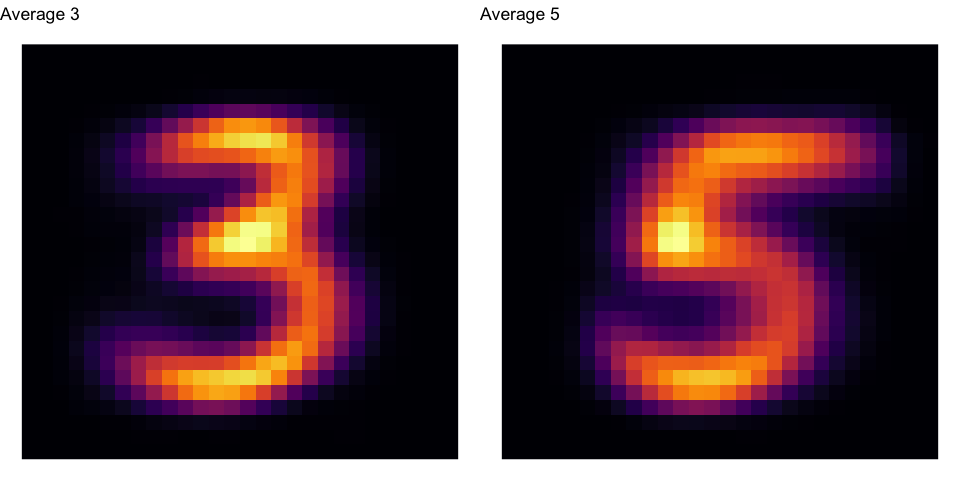
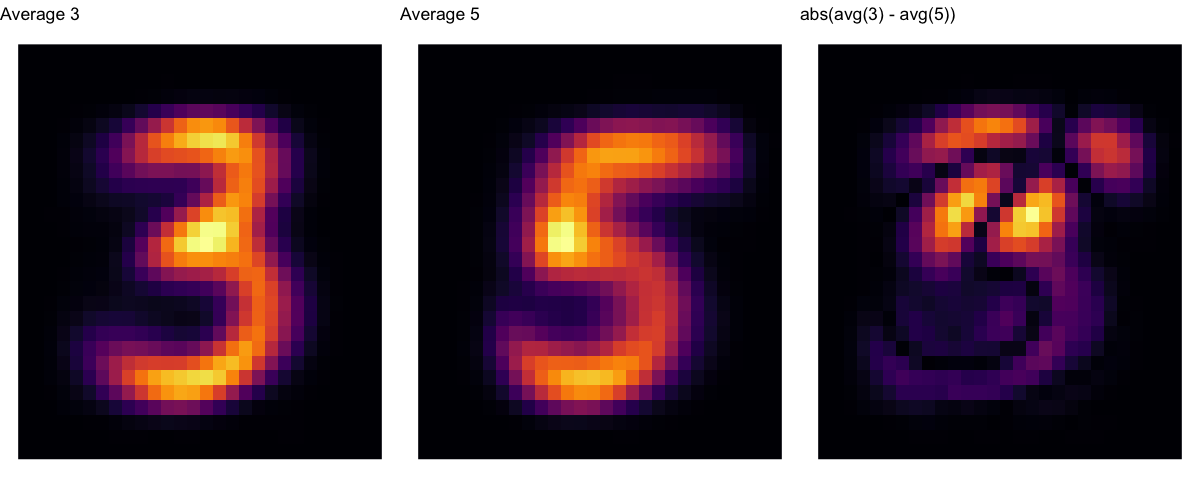
update 3-5 plot (#319)

diff --git a/docs/demos/S-RerF/ImportanceMap.rst b/docs/demos/S-RerF/ImportanceMap.rst
@@ -174,18 +174,24 @@ plot the average 3 and 5 from the training set
 
    s3 <- as.vector(t(sum3[28:1,]))
    s5 <- as.vector(t(sum5[28:1,]))
+   s3m5 <- abs(s3 - s5)
 
-   Z <- data.frame(g, z = c(nn, nnrerf, nnrf, s3, s5), Alg =  rep(c("MF", "Sporf", "RF", "Average 3", "Average 5"), each = length(nn)))
+   Z <- data.frame(g, weight = c(nn, nnrerf, nnrf, s3, s5, s3m5), Alg =  rep(c("MF", "Sporf", "RF", "Average 3", "Average 5", "x3m5"), each = length(nn)))
 
    sc0 <- scale_fill_gradientn(colours = viridis(255))
    sc1 <- scale_fill_gradientn(colours = inferno(255))
 
-   a1 <- ggplot(data = Z[ Z$Alg == "Average 3",    ], aes(x = x, y = y, fill = z)) + geom_raster() + theme_void() + guides(fill = FALSE) + sc1 + ggtitle("Average 3")
-   a2 <- ggplot(data = Z[ Z$Alg == "Average 5", ], aes(x = x, y = y, fill = z)) + geom_raster() + theme_void() + guides(fill = FALSE) + sc1 + ggtitle("Average 5")
+   a1 <- ggplot(data = Z[ Z$Alg == "Average 3",    ], aes(x = x, y = y, fill = weight)) + geom_raster() + theme_void() + guides(fill = FALSE) + sc1 + ggtitle("Average 3")
+   a2 <- ggplot(data = Z[ Z$Alg == "Average 5", ], aes(x = x, y = y, fill = weight)) + geom_raster() + theme_void() + guides(fill = FALSE) + sc1 + ggtitle("Average 5")
+   a3 <- ggplot(data = Z[ Z$Alg == "x3m5", ], aes(x = x, y = y, fill = weight)) + geom_raster() + theme_void() + guides(fill = FALSE) + sc1 + ggtitle("abs(avg(3) - avg(5))")
 
-   grid.arrange(a1, a2, ncol=2)
+   grid.arrange(a1, a2, a3, ncol=3)
 
 |image0|\ 
+
+.. code:: r
+
+   #ggslackr(grid.arrange(a1, a2, a3, ncol=3), channels="#manifold-forest")
 
 Feature heatmap
 ---------------
@@ -195,9 +201,9 @@ heatmaps.
 
 .. code:: r
 
-   p1 <- ggplot(data = Z[ Z$Alg == "MF",    ], aes(x = x, y = y, fill = z)) + geom_raster() + theme_void() + guides(fill = FALSE) + sc1+ ggtitle("MF")
-   p2 <- ggplot(data = Z[ Z$Alg == "Sporf", ], aes(x = x, y = y, fill = z)) + geom_raster() + theme_void() + guides(fill = FALSE) + sc1+ ggtitle("Sporf")
-   p3 <- ggplot(data = Z[ Z$Alg == "RF",    ], aes(x = x, y = y, fill = z)) + geom_raster() + theme_void() + guides(fill = FALSE) + sc1+ ggtitle("RF")
+   p1 <- ggplot(data = Z[ Z$Alg == "MF",    ], aes(x = x, y = y, fill = weight)) + geom_raster() + theme_void() + sc1 + ggtitle("MF")
+   p2 <- ggplot(data = Z[ Z$Alg == "Sporf", ], aes(x = x, y = y, fill = weight)) + geom_raster() + theme_void() + sc1 + ggtitle("Sporf")
+   p3 <- ggplot(data = Z[ Z$Alg == "RF",    ], aes(x = x, y = y, fill = weight)) + geom_raster() + theme_void() + sc1 + ggtitle("RF")
 
    grid.arrange(p1, p2, p3, ncol=3)
 
